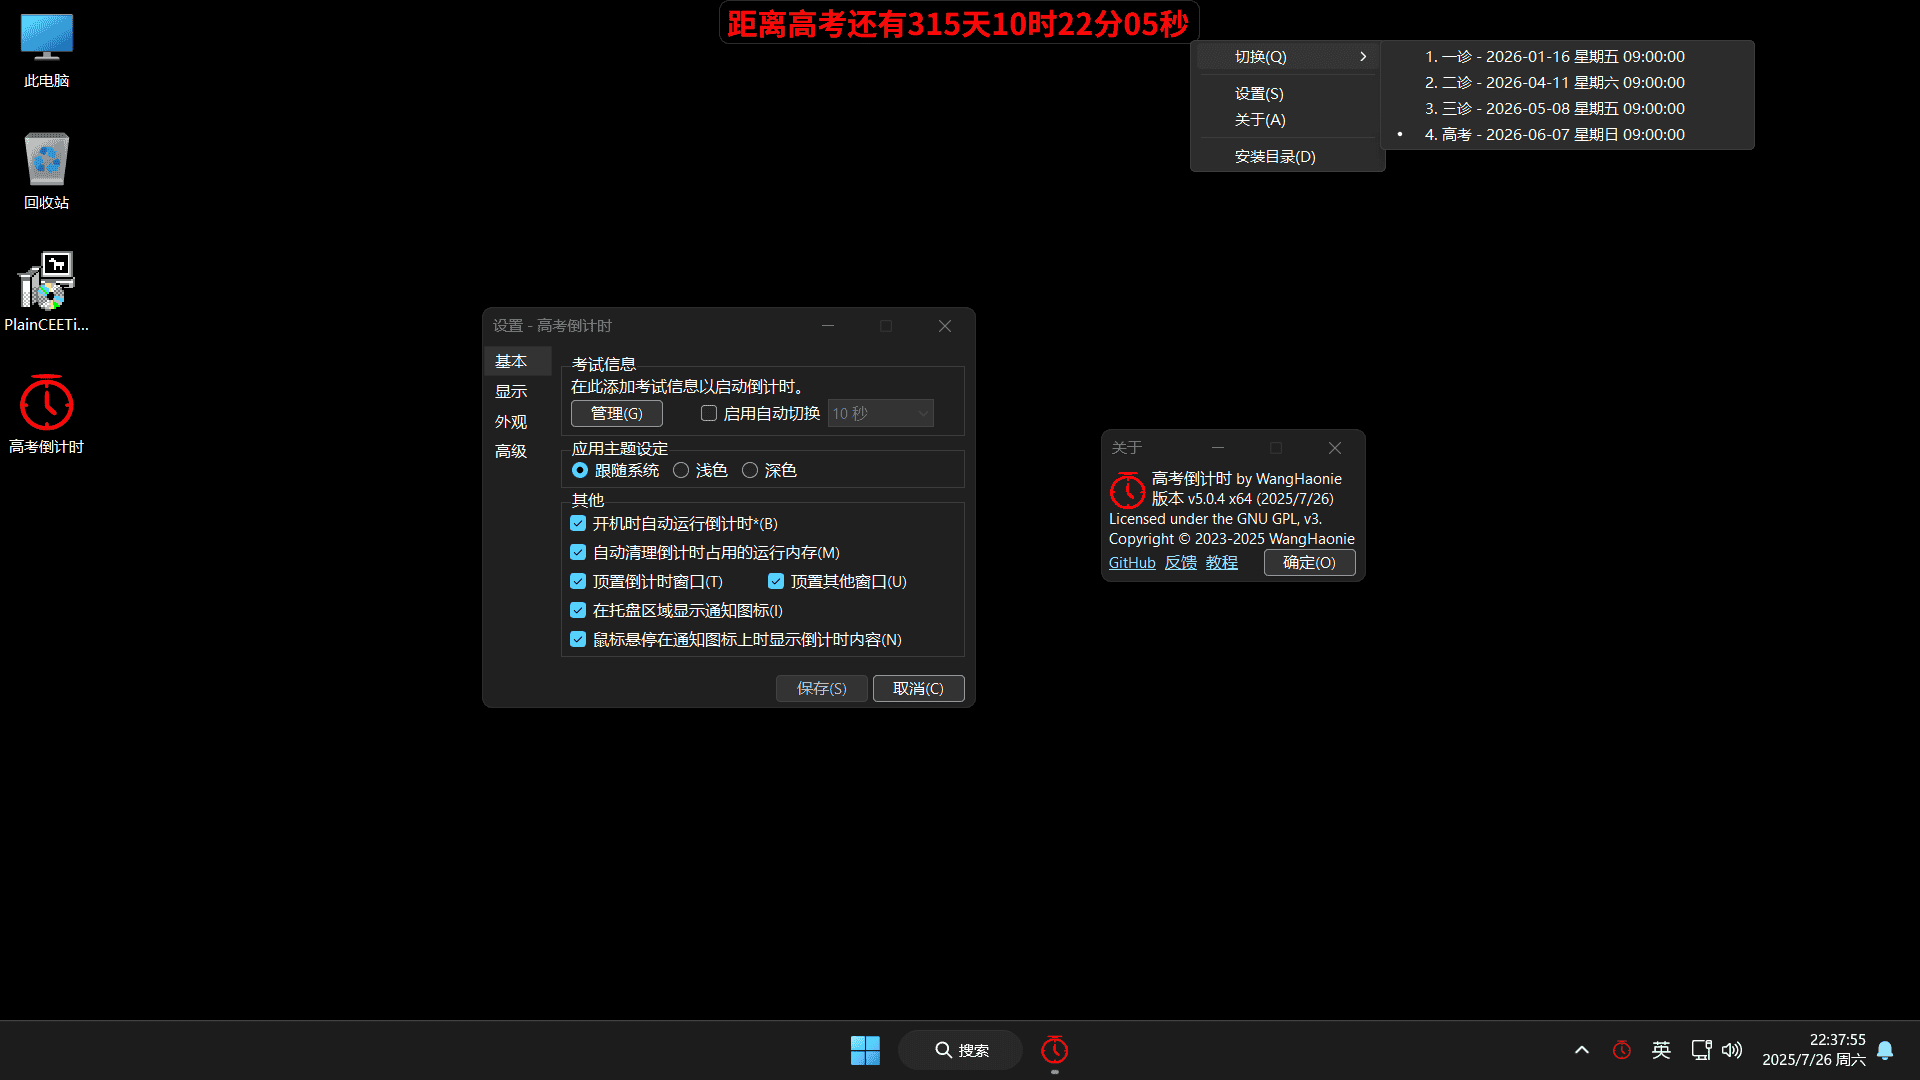
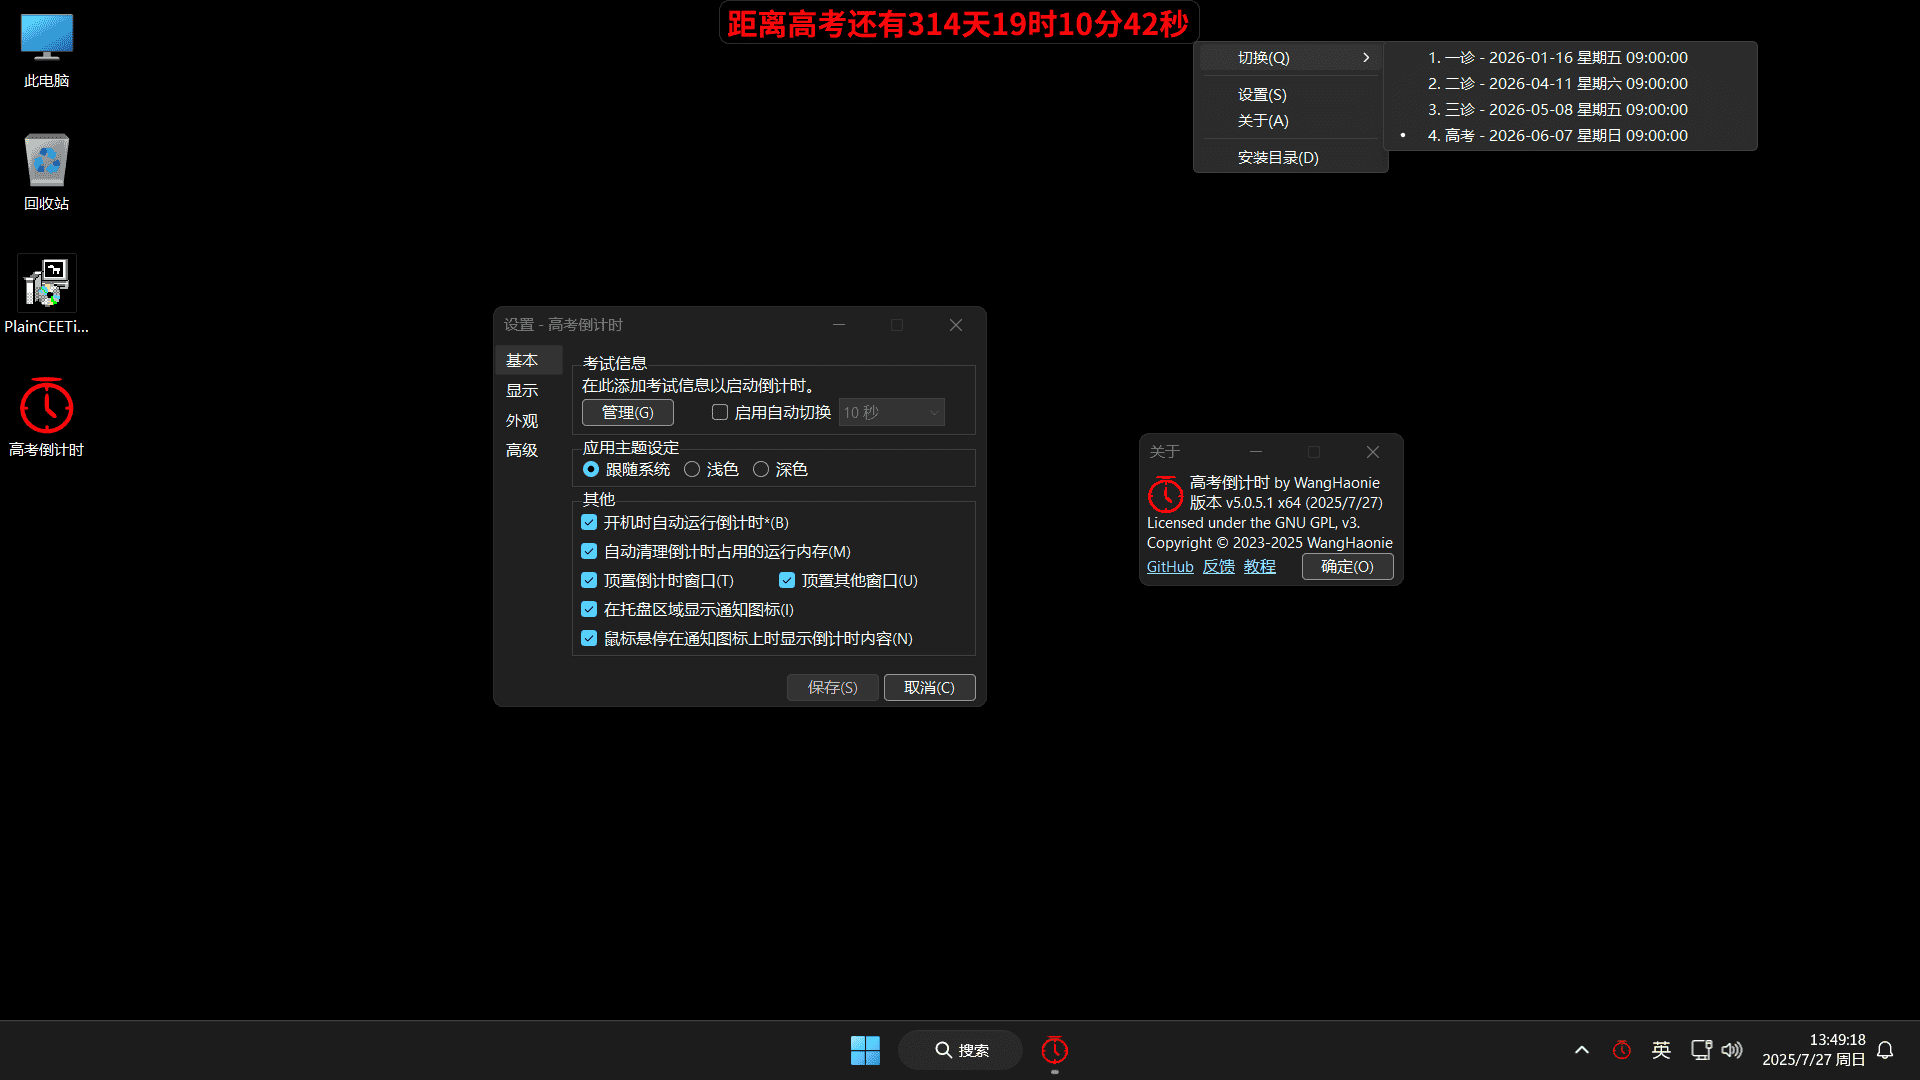
📢 发布了 v5.0.5.1

diff --git a/PlainCEETimer/Modules/App.cs b/PlainCEETimer/Modules/App.cs
@@ -38,7 +38,7 @@ namespace PlainCEETimer.Modules
         public const string AppName = "高考倒计时 by WangHaonie";
         public const string AppNameEng = "PlainCEETimer";
         public const string AppNameEngOld = "CEETimerCSharpWinForms";
-        public const string AppVersion = "5.0.5";
+        public const string AppVersion = "5.0.5.1";
         public const string AppBuildDate = "2025/7/27";
         public const string CopyrightInfo = "Copyright © 2023-2025 WangHaonie";
         public const string OriginalFileName = $"{AppNameEng}.exe";

diff --git a/PlainCEETimer/UI/Controls/PlainListView.cs b/PlainCEETimer/UI/Controls/PlainListView.cs
@@ -119,7 +119,7 @@ namespace PlainCEETimer.UI.Controls
             ThemeManager.FlushControl(hHeader, LVstyle);
             ThemeManager.FlushControl(hToolTips, TTstyle);
             ListViewHelper.SetWindowPos(hToolTips, new(-1), 0, 0, 0, 0, 0x0001U | 0x0002U | 0x0010U);
-            //                                   HWND_TOPMOST      SWP_NOSIZE | SWP_NOMOVE | SWP_NOACTIVATE
+                                              // HWND_TOPMOST      SWP_NOSIZE | SWP_NOMOVE | SWP_NOACTIVATE
 
             base.OnHandleCreated(e);
         }
